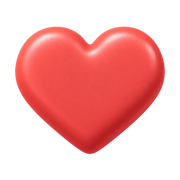
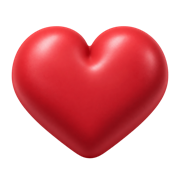
Match Vitalog heart to the red theme with rounded 3D volume (#6)

diff --git a/docs/branding.md b/docs/branding.md
@@ -1,6 +1,6 @@
 # Vitalog brand
 
-Vitalog's mark is a vivid warm red heart with full rounded 3D volume. Its soft clay material and studio highlights follow the shipped Towbar trailer and Mill windmill logos. Keep the heart upright and front-facing, with deep curved lobes and a thick rounded body. Place the transparent mark on plain light or dark surfaces. Both auth pages center the logo above the form without a wordmark, and center their titles and descriptions.
+Vitalog's mark is a deep red heart with full rounded 3D volume. Its base material color is `#D01C29`, the sRGB equivalent of the UI's light accent `oklch(0.55 0.21 25)`. Form shadows and satin highlights reveal the curved clay surface; they vary naturally from the base color. Its sculpted lobes and thick convex body follow the shipped Towbar trailer and Mill windmill logos. Keep the heart upright, with the front prominent and no diagonal tilt. Place the transparent mark on plain light or dark surfaces. Both auth pages center the logo above the form without a wordmark, and center their titles and descriptions.
 
 The source is [`assets/brand/vitalog-mark-source.png`](../assets/brand/vitalog-mark-source.png), a 1254 × 1254 RGBA PNG edited from the original mark with the built-in image generation tool. The source's alpha is preserved in the 256 px page/plugin mark, 64 px favicon/composer icon and 180 px touch icon. Derivatives were resized with macOS `sips`; no visual edits were made outside the image generation tool. The UI reserves a 64 × 64 px image area to avoid layout shifts. Its alt text is "Vitalog" so the logo-only treatment retains an accessible brand name.
 
@@ -10,4 +10,4 @@ The light accent changed from `oklch(0.25 0.015 160)` to `oklch(0.55 0.21 25)`, 
 
 ## Edit prompt
 
-Use case: precise-object-edit. Image 1 is the Vitalog red heart logo to edit. Images 2 and 3 are style references only: Towbar's yellow trailer and Mill's windmill, for their rounded dimensional soft clay rendering and polished studio lighting. Edit only the heart in image 1. Give it full three-dimensional, plump sculptural volume rather than shallow embossed relief: deep softly rounded lobes and a thick rounded body with believable curvature, diffuse shading, subtle satin highlights and rich red edges. Preserve its upright front-facing orientation, recognizable symmetrical heart silhouette, centered composition and vivid warm red approximately #E84D4D. Keep the camera straight on and do not tilt or rotate the heart. Match the soft polished clay character of the other two logos without copying any of their objects or colors. Deliver a single standalone solid red heart, with no plus, inset mark, symbol, text, outline, border, pedestal or additional object. Transparent background with clean alpha, square canvas, balanced padding, no detached cast shadow. This is a finished app brand icon that should remain clear at 64 pixels.
+Use case: precise-object-edit. Image 1 is the Vitalog heart logo to EDIT, not just recolor. Image 2 is Towbar's full 3D clay logo style reference. Make a substantial geometry redesign of image 1: a fully inflated solid heart sculpture with huge near-spherical rounded upper lobes and a strongly bulging center/body. Replace the broad flat-looking front panel with continuous convex curvature, like a thick plush clay heart whose depth is at least half its width. The bottom point must also be thick and rounded. Give the heart an obviously visible rounded side volume and curved underside, a deep cleft between the lobes, and natural self-shadowing. The heart's vertical axis stays completely upright on the canvas with no diagonal tilt; show the front prominently, with only a very slight product-view perspective/elevation sufficient to reveal its depth, as a physical freestanding sculpture. This should read as full 3D immediately at 64px, with dramatic but soft form shadows and small satin highlights, not a flat emoji, embossed badge, beveled slab, or metallic pin. Base material: precisely the deep vivid theme red #D01C29; red form shading is fine, no pale coral or orange shift. Match the softly rounded solid clay craftsmanship of Towbar's logo while using one plain heart only. No plus, cross, symbol, writing, outline, pedestal, balloon string, extra object, flat broad front plane, or detached ground shadow. Genuinely transparent background, square canvas, centered object with balanced padding, clean preserved alpha.
